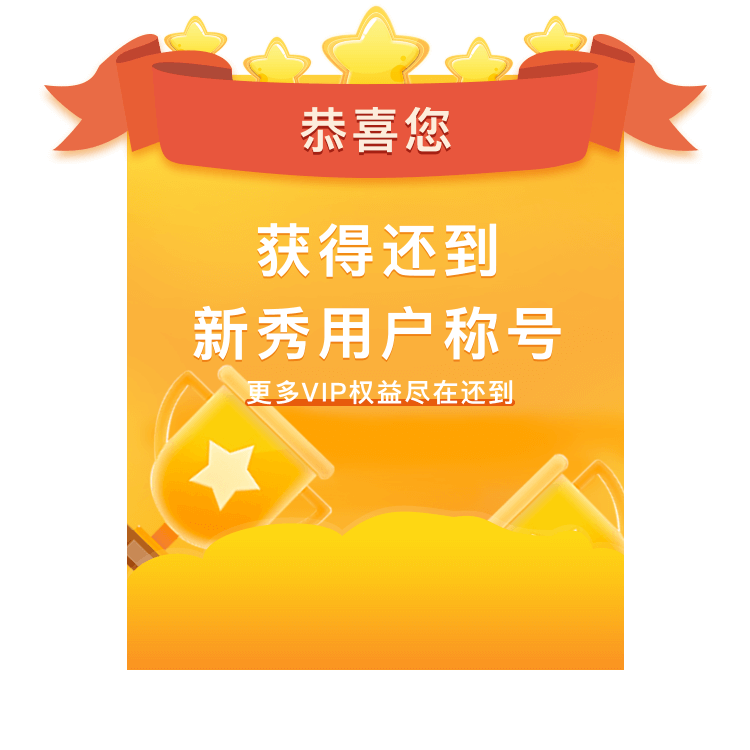
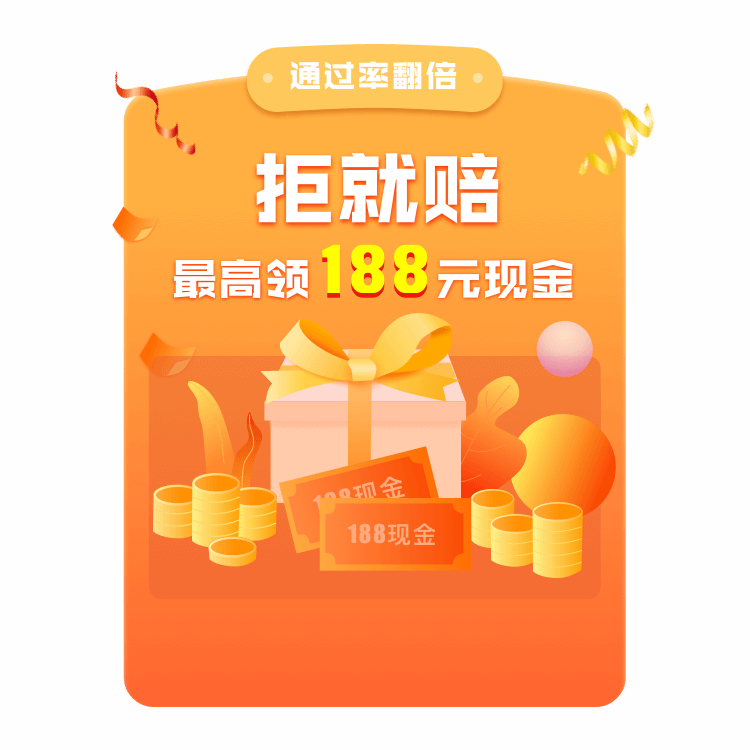
修改样式以及逻辑

diff --git a/src/pages/home/home_page/index.js b/src/pages/home/home_page/index.js
@@ -737,9 +737,11 @@ export default class home_page extends PureComponent {
 	};
 	// 获取首页信息
 	requestGetUsrInfo = async () => {
-		let koubeiRes
+		// let koubeiRes
+		let isInvoking_jjp;
 		try {
-			koubeiRes = isMPOS() && await this.props.$fetch.post(API.checkKoubei)
+			isInvoking_jjp = await this.isInvoking_jjp();
+			// koubeiRes = isMPOS() && await this.props.$fetch.post(API.checkKoubei)
 		} catch (error) {
 			console.log(error)
 		}
@@ -796,30 +798,27 @@ export default class home_page extends PureComponent {
 					}
 				);
 				//口碑活动弹窗
-				if (isMPOS() && koubeiRes && koubeiRes.data.joinMark === '00' && !store.getShowActivityModal()) {
+				// if (isMPOS() && koubeiRes && koubeiRes.data.joinMark === '00' && !store.getShowActivityModal()) {
+				// 	this.setState(
+				// 		{
+				// 			isShowActivityModal: true,
+				// 			modalType: koubeiRes && koubeiRes.data.isNewUser === '01' ? 'koubei_new_user' : 'koubei_old_user',
+				// 			modalBtnFlag: true
+				// 		},
+				// 		() => {
+				// 			store.setShowActivityModal(true);
+				// 		}
+				// 	);
+				// } else 
+				// 拒就赔活动
+				if (isInvoking_jjp === '1' && !store.getShowActivityModal()) {
 					this.setState(
 						{
 							isShowActivityModal: true,
-							modalType: koubeiRes && koubeiRes.data.isNewUser === '01' ? 'koubei_new_user' : 'koubei_old_user',
-							modalBtnFlag: true
+							modalType: 'jujiupei'
 						},
 						() => {
 							store.setShowActivityModal(true);
-						}
-					);
-				} else if (
-					isMPOS() &&
-					!store.getShowActivityModal() &&
-					Cookie.get('currentTime') !== new Date().getDate().toString()
-				) {
-					this.setState(
-						{
-							isShowActivityModal: true,
-							modalType: 'brand'
-						},
-						() => {
-							store.setShowActivityModal(true);
-							Cookie.set('currentTime', new Date().getDate(), { expires: 365 });
 						}
 					);
 				}
@@ -947,6 +946,10 @@ export default class home_page extends PureComponent {
 			case 'koubei_old_user':
 				buriedPointEvent(activity.koubeiHomeOldModalClick);
 				break
+			case 'jjp': // 拒就赔弹框按钮
+				buriedPointEvent(activity.jjpHomeModalClick)
+				this.props.history.push('/activity/jupei_page?entry=isxdc_home_alert');
+			break;
 			default:
 				break;
 		}
@@ -1375,6 +1378,26 @@ export default class home_page extends PureComponent {
 				break;
 		}
 		return componentsAddCards;
+	};
+
+	// 判断是否参与拒就赔活动
+	isInvoking_jjp = () => {
+		return new Promise((resolve, reject) => {
+			this.props.$fetch
+				.get(API.checkJoin)
+				.then((res) => {
+					// 0:不弹出  1:弹出
+					if (res && res.msgCode === 'JJP0002') { // 用户没参加过拒就赔活动
+						// 如果是活动来的，
+						resolve('1');
+					} else {
+						resolve('0');
+					}
+				})
+				.catch((err) => {
+					reject();
+				});
+		});
 	};
 
 	render() {

diff --git a/src/components/ActivityModal/index.js b/src/components/ActivityModal/index.js
@@ -1,7 +1,7 @@
 import React from 'react';
 import { Modal } from 'antd-mobile';
 import styles from './index.scss';
-import brand from '../../assets/images/home/huodongTootip4.png';
+import jujiupei from '../../assets/images/home/huodongTootip4.png';
 import huodongTootipBtn4 from '../../assets/images/home/huodongTootip_btn4.png';
 import xianjin from './img/xianjin.png';
 import xianjinBtn from './img/xianjinBtn.png';
@@ -32,9 +32,10 @@ class ActivityModal extends React.Component {
 						<div className={styles.content}>
 							{/* 大图 */}
 							{modalType === 'xianjin' ? <img src={xianjin} /> : null}
-							{modalType === 'brand' ? <img src={brand} /> : null}
+							{modalType === 'jujiupei' ? <img src={jujiupei} /> : null}
+							{/* {modalType === 'brand' ? <img src={brand} /> : null}
 							{modalType === 'koubei_new_user' ? <img src={koubei_new_bg} /> : null}
-							{modalType === 'koubei_old_user' ? <img src={koubei_old_bg} /> : null}
+							{modalType === 'koubei_old_user' ? <img src={koubei_old_bg} /> : null} */}
 							{/* 按钮 */}
 							{modalType === 'xianjin' ? (
 								<img
@@ -46,16 +47,16 @@ class ActivityModal extends React.Component {
 									}}
 								/>
 							) : null}
-							{modalType === 'brand' ? (
+							{modalType === 'jujiupei' ? (
 								<img
 									className={styles.huodongTootipBtn4}
 									src={huodongTootipBtn4}
 									onClick={() => {
-										activityModalBtn(modalType);
+										activityModalBtn('jjp');
 									}}
 								/>
 							) : null}
-							{modalType === 'koubei_new_user' ? (
+							{/* {modalType === 'koubei_new_user' ? (
 								<img
 									className={styles.koubeiBtn}
 									src={huodongTootipBtn4}
@@ -72,7 +73,7 @@ class ActivityModal extends React.Component {
 										activityModalBtn('koubei_old_user');
 									}}
 								/>
-							) : null}
+							) : null} */}
 						</div>
 						{/* 关闭按钮 */}
 						{!modalBtnFlag ? (

diff --git a/src/components/ActivityModal/index.scss b/src/components/ActivityModal/index.scss
@@ -22,9 +22,9 @@
 				left: 50%;
 				transform: translateX(-50%);
 			}
-			// 品牌活动
+			// 拒就赔活动
 			.huodongTootipBtn4 {
-				width: 471px;
+				width: 397px;
 				position: absolute;
 				bottom: 80px;
 				left: 50%;
